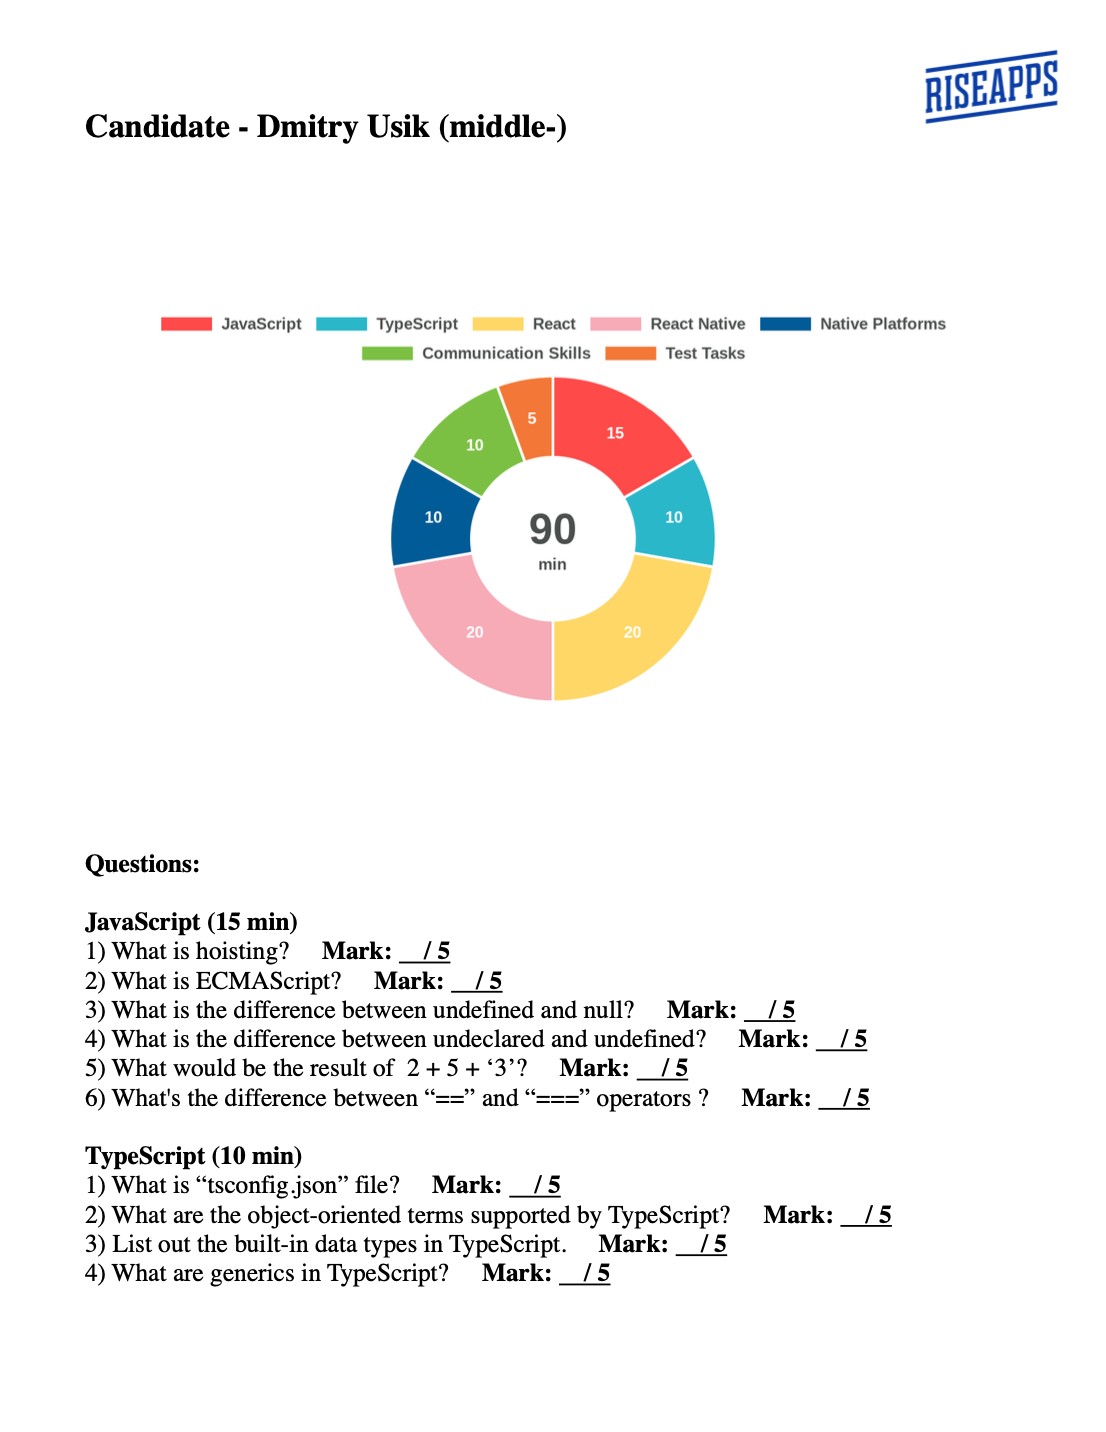
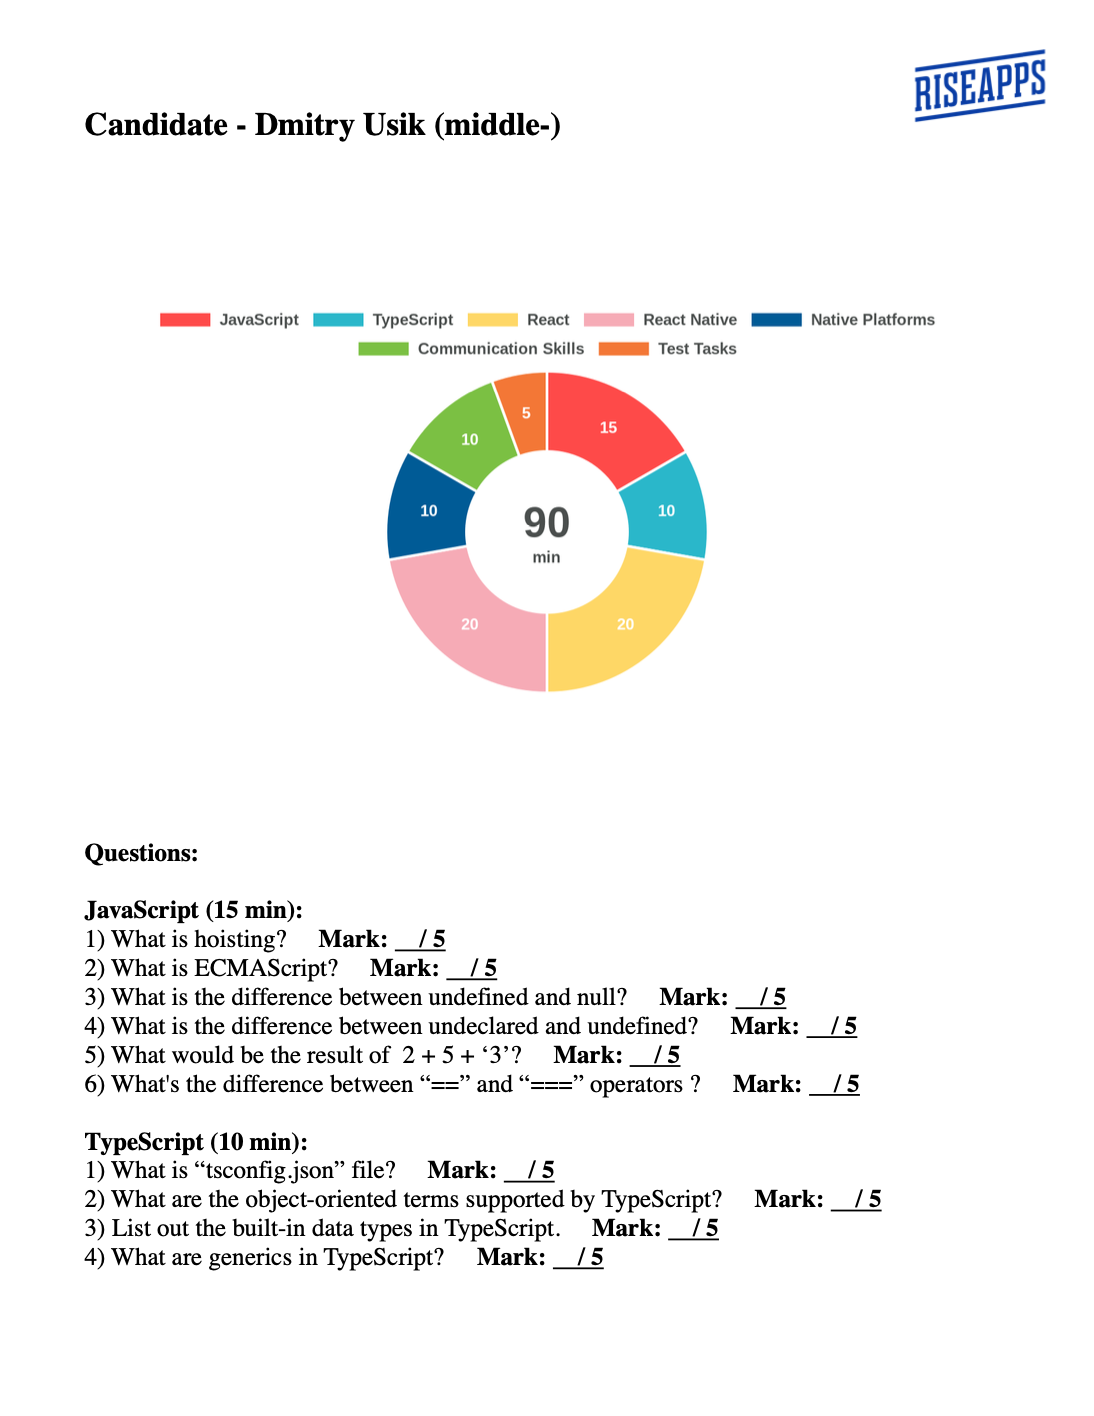
- changed example files;

diff --git a/src/generateInterviewPDF.ts b/src/generateInterviewPDF.ts
@@ -38,7 +38,7 @@ const _generateInterviewPDF = (questions: Map<string, QuestionData[]>): void => 
                 `${curr} (${
                     Object.values(interview.topics).find((topic) => topic.label === curr)
                         .durationMin
-                } min)`,
+                } min):`,
             )
         return questions
             .get(curr)
